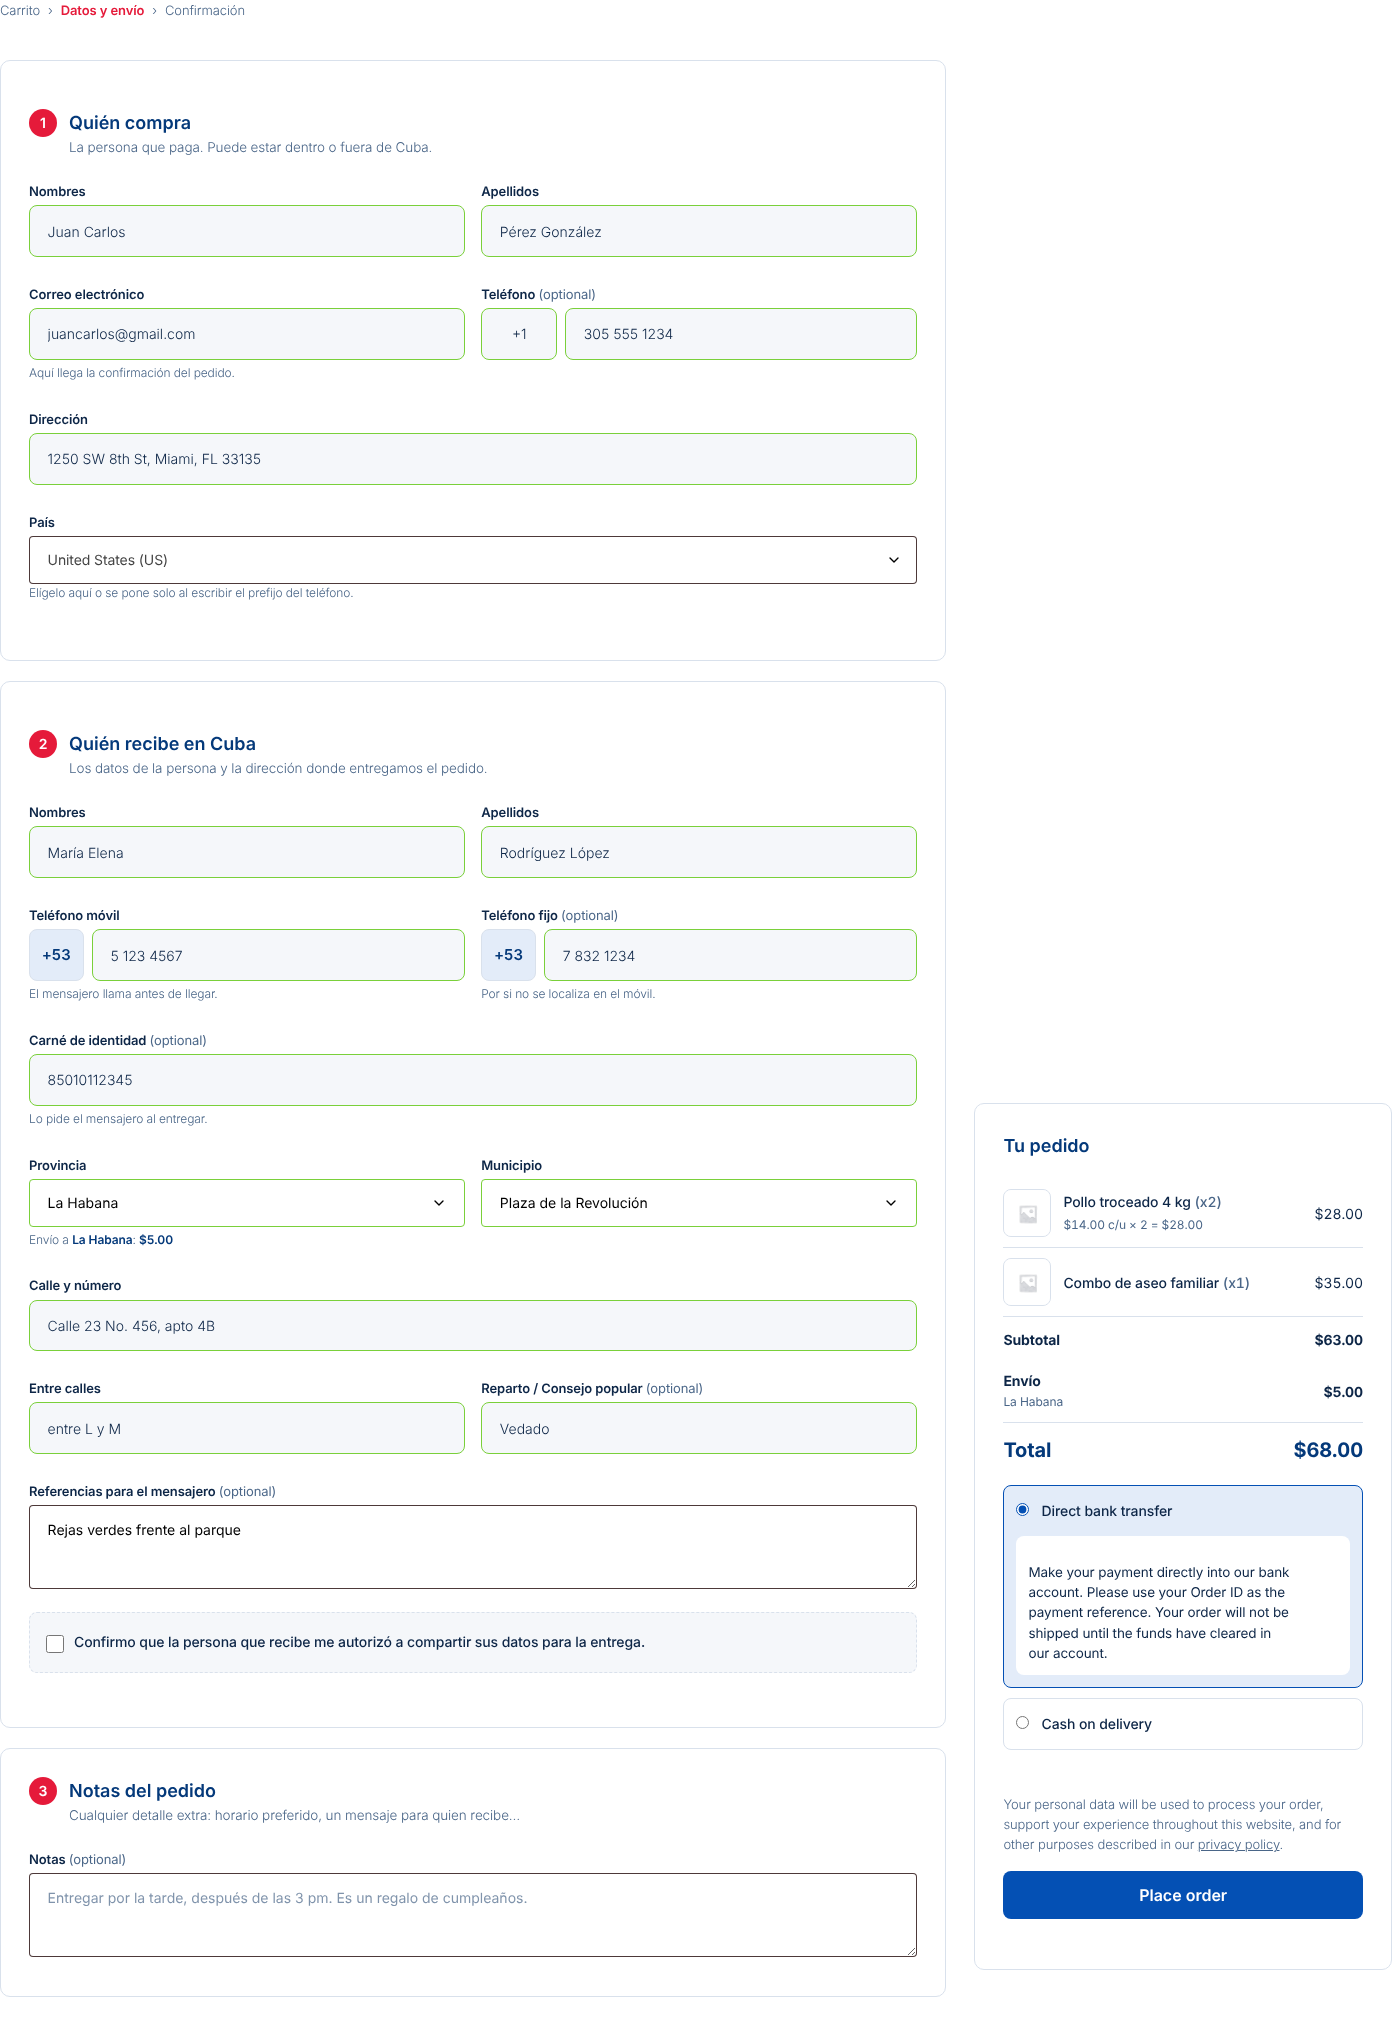
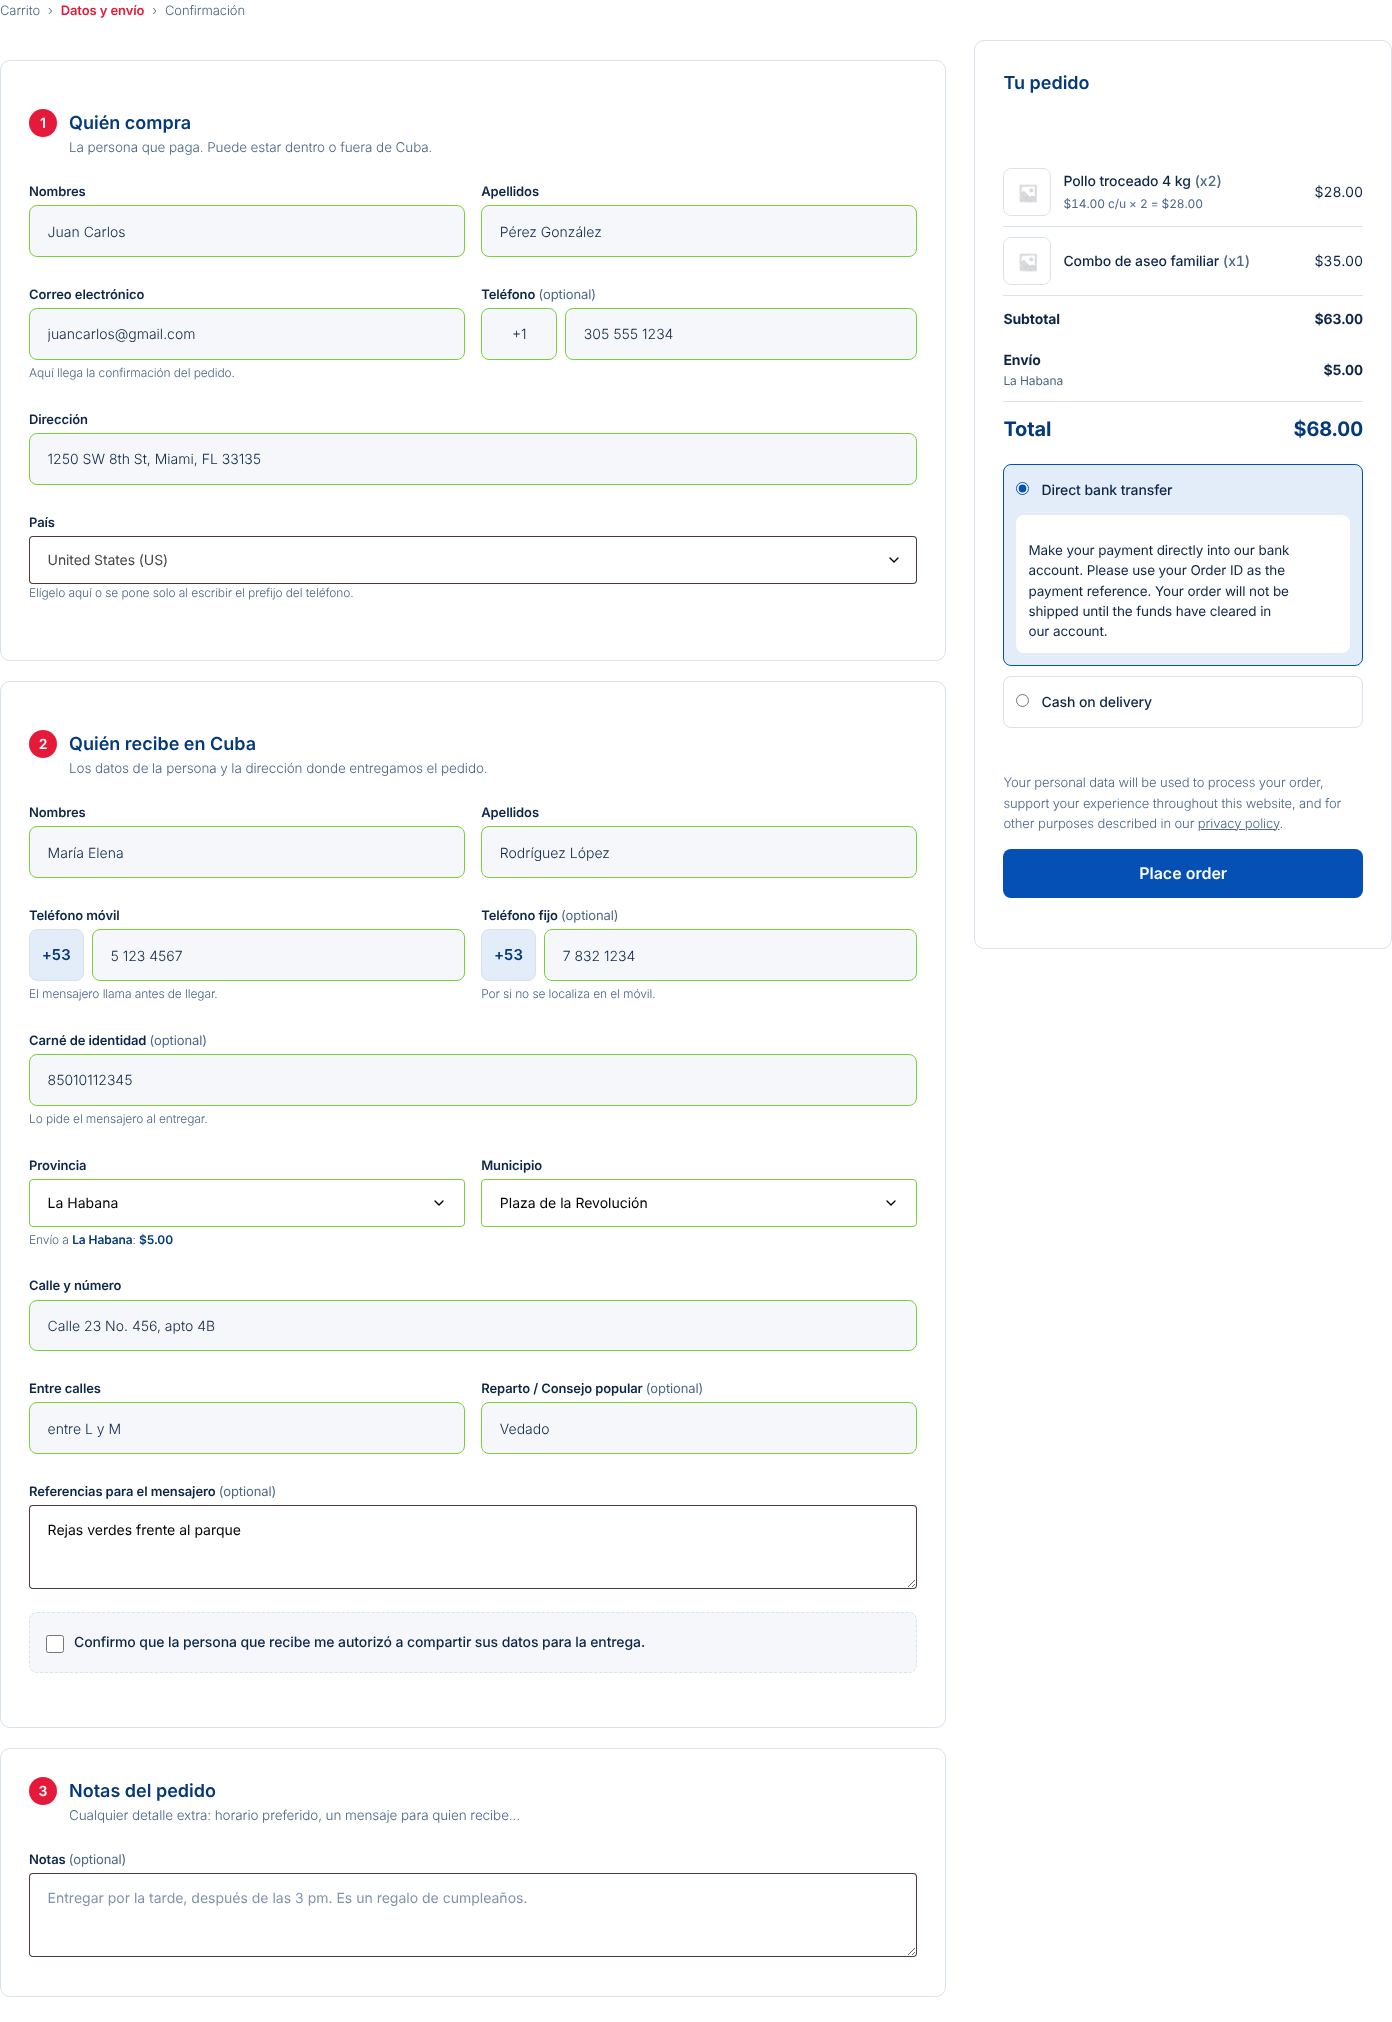
Página y README: crédito a Chuck Gomez; captura del checkout con el resumen arriba
Claude-Session: https://claude.ai/code/session_01EWhmGeABX6mTrDuc7dUCjf

diff --git a/docs/index.html b/docs/index.html
@@ -266,6 +266,7 @@ footer a { color: var(--white); }
 <footer>
 	<div class="wrap">
 		<div class="by">Desarrollado por <img src="img/gmeti-white.png" alt=""><a href="https://gmeti.com" target="_blank" rel="noopener noreferrer"><b>GMETI</b></a></div>
+		<div>Creado por <a href="https://www.instagram.com/chuckgomez92" target="_blank" rel="noopener noreferrer"><b>Chuck Gomez</b></a></div>
 		<div>Soporte: <span class="mail">easy2cubaforwoo@gmeti.com</span></div>
 		<div>Licencia GPLv2 · <a href="https://github.com/wpdesigndev/easy2cuba-for-woocommerce">GitHub</a></div>
 	</div>

diff --git a/README.md b/README.md
@@ -13,6 +13,7 @@
   <a href="../../releases/latest"><strong>⬇ Descargar la última versión</strong></a>
   &nbsp;·&nbsp; <a href="#english">English</a>
   &nbsp;·&nbsp; Desarrollado por <a href="https://gmeti.com">GMETI</a>
+  &nbsp;·&nbsp; Creado por <a href="https://www.instagram.com/chuckgomez92">Chuck Gomez</a>
 </p>
 
 ---
@@ -73,4 +74,4 @@ GPLv2 o posterior. Incluye [FPDF](http://www.fpdf.org) para generar los PDF (lic
 
 **Install:** download `easy2cuba-for-woocommerce.zip` from the [latest release](../../releases/latest), then *Plugins → Add New → Upload Plugin*. Updates arrive automatically from this repository.
 
-Developed by [GMETI](https://gmeti.com) · Support: easy2cubaforwoo@gmeti.com · License: GPLv2 or later.
+Developed by [GMETI](https://gmeti.com) · Created by [Chuck Gomez](https://www.instagram.com/chuckgomez92) · Support: easy2cubaforwoo@gmeti.com · License: GPLv2 or later.
